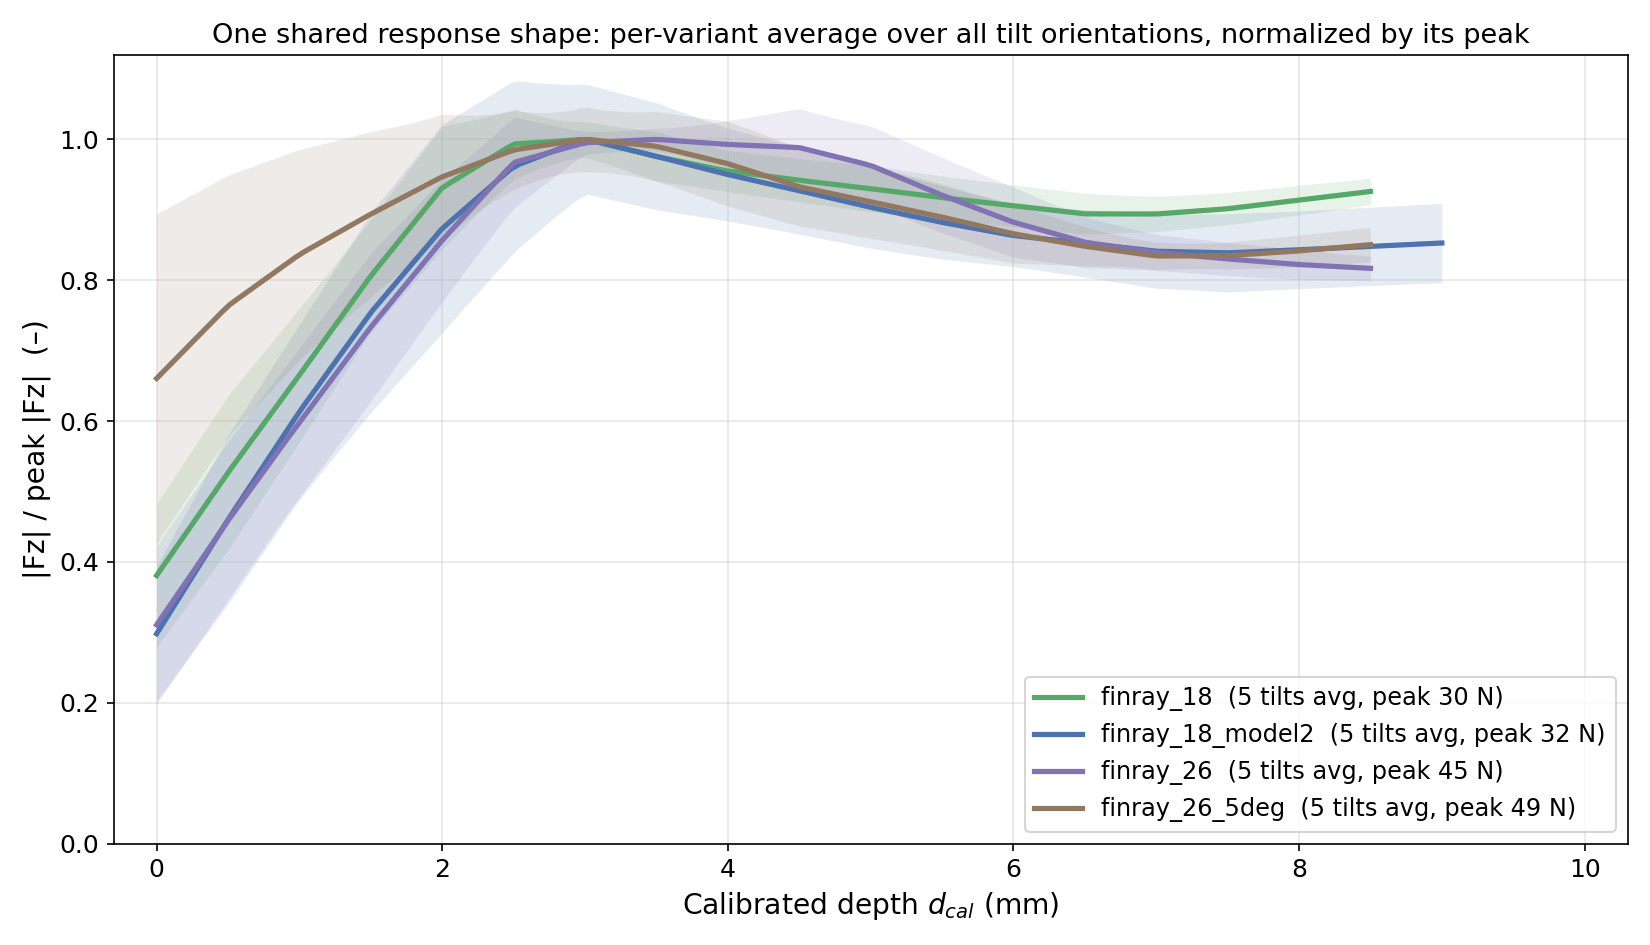
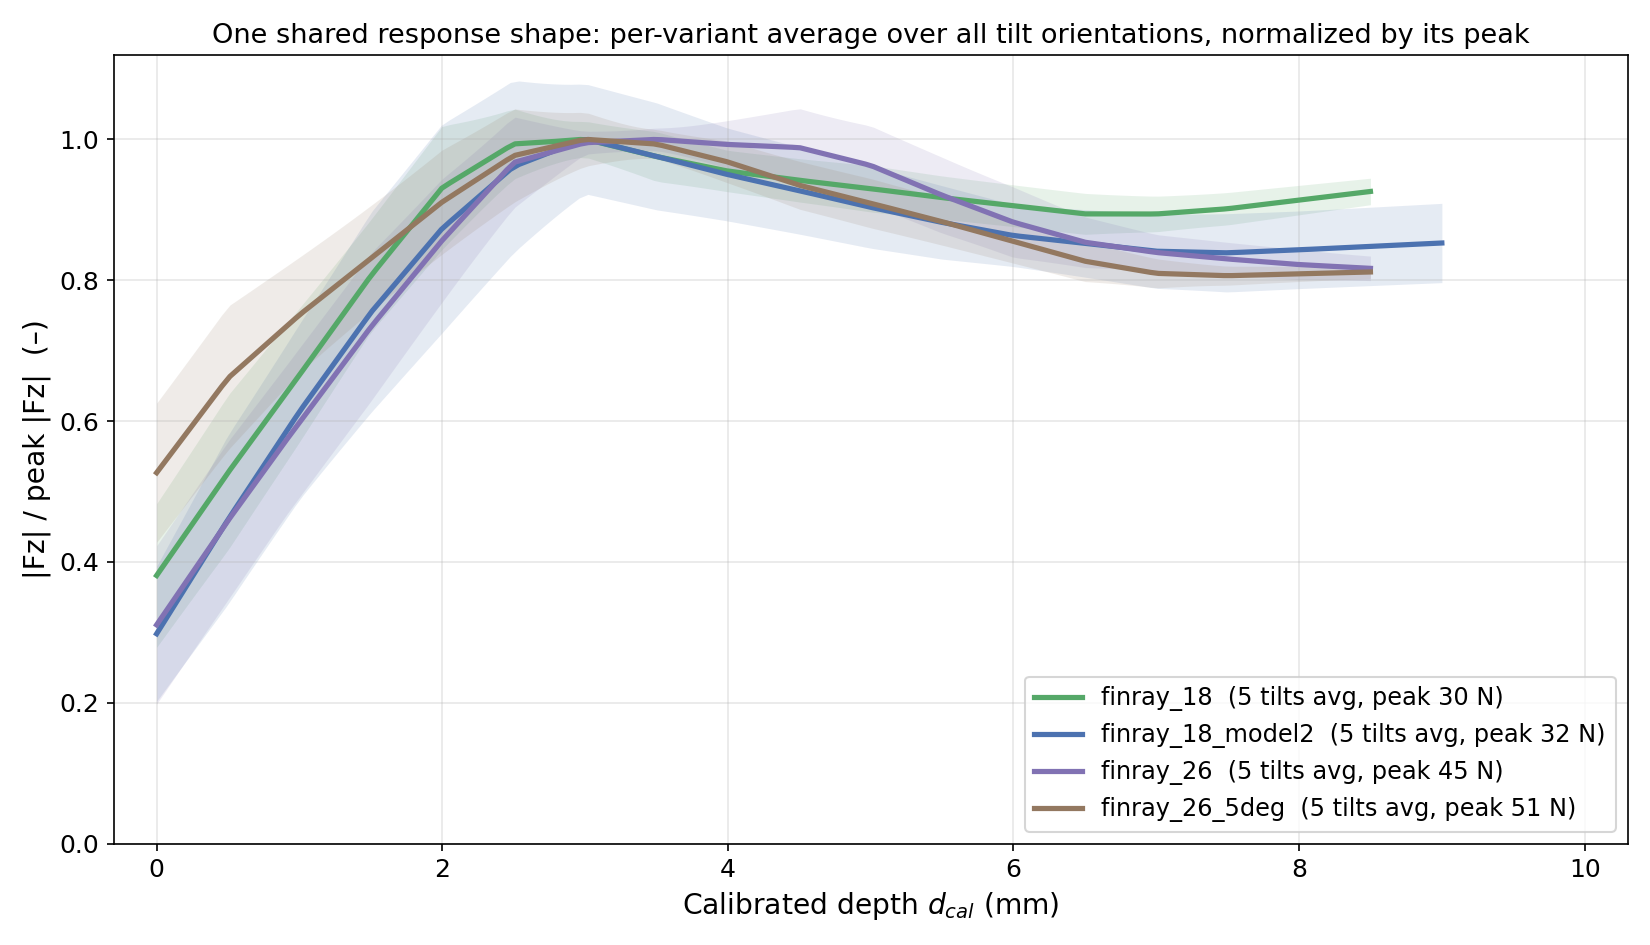
Bill 0007 R2 (majority rule, 2/3 = success): tilt range chart v8, shape figure regenerated; fr26_5deg diagnostics committed
Claude-Session: https://claude.ai/code/session_017oudrhYNYJJXGqbwKUgFwY

diff --git a/docs/governance/bills/0007-calibrated-depth-reference.md b/docs/governance/bills/0007-calibrated-depth-reference.md
@@ -91,3 +91,15 @@ pair — is zeroed at its OWN first successful attempt, rather than
 inheriting the variant's zero-tilt reference. The analysis window
 [0, 10] mm applies from each series' own zero. Conditions with no
 successful attempt have no defined zero and are reported as such.
+
+
+---
+
+**Revision R2 (2026-08-10, approved by Shiyao Ni in-session):**
+Cell success criterion relaxed from all-attempts-succeed to MAJORITY
+success: a cell counts as successful when at least 2/3 of its valid
+attempts (completed, non-relabelled) succeed. Applies uniformly to all
+variants and conditions — affects zero placement (first majority-success
+cell) and range membership. Motivated by the finray_26_5deg boundary
+cells (2/3 at raw −0.5) whose exclusion under the strict rule displaced
+series zeros mid-ramp.
